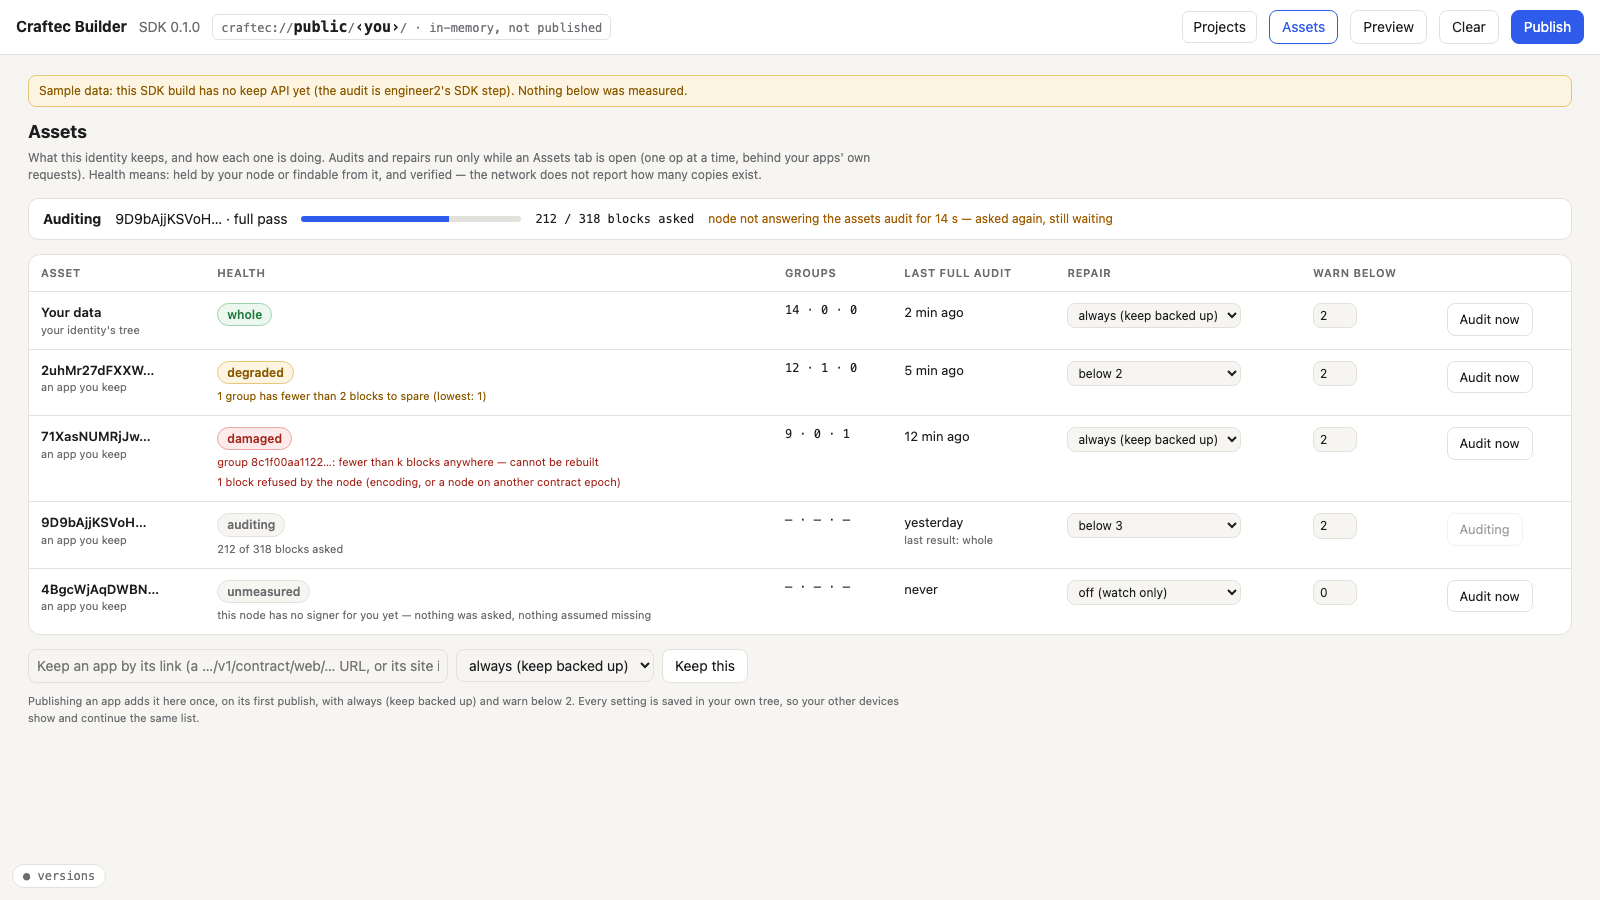
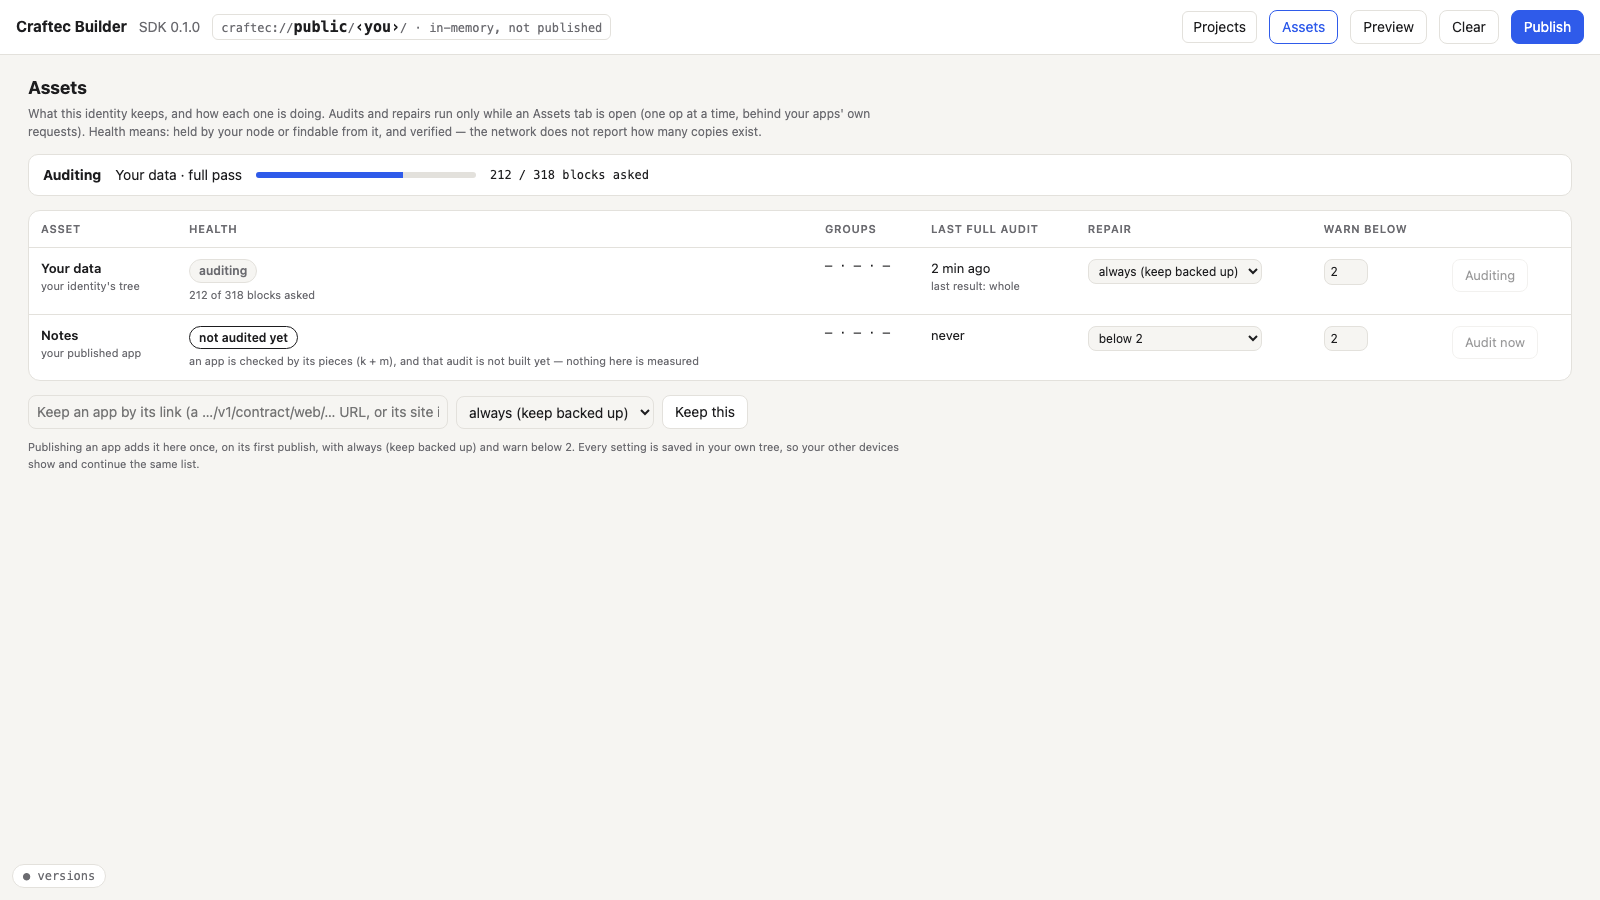
builder#164: the Assets tab on the SDK's real keep API -- the stub is deleted; an APP is 'not audited yet' and never healthy until its pieces audit exists (sdk#493), pinned by a test with the identity-tree control; a keepAudit refusal is said; screenshot over sample SDK answers

diff --git a/assets.js b/assets.js
@@ -28,38 +28,67 @@ export function ago(auditedAt, nowMs) {
  * "background" })`. Returns `{ running, rows }`.
  */
 export function assetsView({ assets, reports = new Map(), labels = new Map(), waiting = null, nowMs }) {
-  const rows = assets.map(a => {
-    const report = reports.get(a.target) ?? null;
-    const running = report?.state === "running";
-    const unmeasured = report?.state === "unmeasured" || a.health?.word === "unmeasured";
-    // The word: the live pass's when it finished this session, else the record's last full pass (both the SDK's).
-    const done = report?.state === "done" ? report : null;
-    const word = running ? "auditing" : unmeasured ? "unmeasured" : (done?.health ?? a.health?.word ?? "never audited");
-    const counts = done ?? (a.health?.word ? a.health : null);
-    const notes = [];
-    if (running) notes.push({ kind: "progress", text: `${report.asked} of ${report.of} blocks asked` });
-    if (unmeasured) notes.push({ kind: "mute", text: "this node has no signer for you yet — nothing was asked, nothing assumed missing" });
-    const warning = done?.warning ?? (running ? null : a.warning);
-    if (!running && !unmeasured && warning) notes.push({ kind: "warn", text: warning });
-    for (const g of done?.damaged ?? []) notes.push({ kind: "damaged", text: `group ${short(g)}: fewer than k blocks anywhere — cannot be rebuilt` });
-    const rejected = done?.rejected?.length ?? 0;
-    if (rejected) notes.push({ kind: "damaged", text: `${rejected} block${rejected === 1 ? "" : "s"} refused by the node (encoding, or a node on another contract epoch)` });
-    const pending = done?.pending ?? 0;
-    return {
-      target: a.target,
-      name: labels.get(a.target) ?? (a.kind === "identity" ? "Your data" : short(a.target)),
-      sub: a.kind === "identity" ? "your identity's tree" : labels.has(a.target) ? "your published app" : "an app you keep",
-      word,
-      notes,
-      groups: counts && !running ? `${counts.whole} · ${counts.degraded} · ${counts.damaged?.length ?? counts.damaged}` : "— · — · —",
-      last: ago(a.audited_at, nowMs),
-      lastNote: running && a.health?.word ? `last result: ${a.health.word}` : pending ? `${pending} block${pending === 1 ? "" : "s"} pending (silent) — asked again next pass` : null,
-      repair: repairWords(a.policy.repair),
-      warnBelow: a.policy.warn_below,
-      // Disabled only while a pass runs. NOT for unmeasured: running a pass is how a row learns it is (engineer2).
-      canAudit: !running,
-    };
-  });
+  const rows = assets.map(a => (a.kind === "identity" ? treeRow(a, reports, labels, nowMs) : notAuditedRow(a, labels, nowMs)));
+  return { running: runningLine(assets, reports, rows, waiting), rows };
+}
+
+/**
+ * An asset the SDK cannot audit yet: an APP is audited by its container's PIECES (k + m, KEEPER §2), and that audit is
+ * not built (sdk#493) -- the SDK's `keepAudit` refuses it NOT_AUDITABLE. So the row is "not audited yet", NEVER a health
+ * word, whatever its record holds (no pass of ours measured it), and its button is off. Its policy is still editable:
+ * the record is kept, and the pass will read it once it exists.
+ */
+function notAuditedRow(a, labels, nowMs) {
+  return {
+    target: a.target,
+    name: labels.get(a.target) ?? short(a.target),
+    sub: labels.has(a.target) ? "your published app" : "an app you keep",
+    word: "not audited yet",
+    notes: [{ kind: "mute", text: "an app is checked by its pieces (k + m), and that audit is not built yet — nothing here is measured" }],
+    groups: "— · — · —",
+    last: ago(0, nowMs),
+    lastNote: null,
+    repair: repairWords(a.policy.repair),
+    warnBelow: a.policy.warn_below,
+    canAudit: false,
+  };
+}
+
+/** The identity's own TREE: the asset a pass runs on (this session's page). */
+function treeRow(a, reports, labels, nowMs) {
+  const report = reports.get(a.target) ?? null;
+  const running = report?.state === "running";
+  const unmeasured = report?.state === "unmeasured" || a.health?.word === "unmeasured";
+  // The word: the live pass's when it finished this session, else the record's last full pass (both the SDK's).
+  const done = report?.state === "done" ? report : null;
+  const word = running ? "auditing" : unmeasured ? "unmeasured" : (done?.health ?? a.health?.word ?? "never audited");
+  const counts = done ?? (a.health?.word ? a.health : null);
+  const notes = [];
+  if (running) notes.push({ kind: "progress", text: `${report.asked} of ${report.of} blocks asked` });
+  if (unmeasured) notes.push({ kind: "mute", text: "this node has no signer for you yet — nothing was asked, nothing assumed missing" });
+  const warning = done?.warning ?? (running ? null : a.warning);
+  if (!running && !unmeasured && warning) notes.push({ kind: "warn", text: warning });
+  for (const g of done?.damaged ?? []) notes.push({ kind: "damaged", text: `group ${short(g)}: fewer than k blocks anywhere — cannot be rebuilt` });
+  const rejected = done?.rejected?.length ?? 0;
+  if (rejected) notes.push({ kind: "damaged", text: `${rejected} block${rejected === 1 ? "" : "s"} refused by the node (encoding, or a node on another contract epoch)` });
+  const pending = done?.pending ?? 0;
+  return {
+    target: a.target,
+    name: "Your data",
+    sub: "your identity's tree",
+    word,
+    notes,
+    groups: counts && !running ? `${counts.whole} · ${counts.degraded} · ${counts.damaged?.length ?? counts.damaged}` : "— · — · —",
+    last: ago(a.audited_at, nowMs),
+    lastNote: running && a.health?.word ? `last result: ${a.health.word}` : pending ? `${pending} block${pending === 1 ? "" : "s"} pending (silent) — asked again next pass` : null,
+    repair: repairWords(a.policy.repair),
+    warnBelow: a.policy.warn_below,
+    // Disabled only while a pass runs. NOT for unmeasured: running a pass is how a row learns it is (engineer2).
+    canAudit: !running,
+  };
+}
+
+function runningLine(assets, reports, rows, waiting) {
   const live = assets.map(a => [a, reports.get(a.target)]).find(([, r]) => r?.state === "running");
   const running = live && {
     target: live[0].target,
@@ -69,5 +98,5 @@ export function assetsView({ assets, reports = new Map(), labels = new Map(), wa
     of: live[1].of,
     waiting: waiting && /assets audit/.test(waiting.what) ? `node not answering the assets audit for ${Math.round(waiting.ms / 1000)} s — asked again, still waiting` : null,
   };
-  return { running: running ?? null, rows };
+  return running ?? null;
 }

diff --git a/app.js b/app.js
@@ -742,9 +742,7 @@ render();
 
 // ---- THE ASSETS TAB (builder#164; KEEPER.md §1, §3) ----------------------------------------------------------------
 // A header button that swaps the main area for the assets view. The view reads the SDK's keep API on the session
-// handle. Until that API is in the pinned SDK, the tab runs on `assets-keep-stub.js` and SAYS so on the page -- the
-// stub is deleted in the PR that switches to the real surface (the architect's condition), and nothing it shows is
-// presented as measured.
+// handle (sdk#472). A pinned SDK without it shows THAT, and nothing else: no sample rows, nothing presented as measured.
 {
   const button = $("assets"), view = $("assets-view"), mainEl = document.querySelector("main");
   let mounted = null;
@@ -761,10 +759,12 @@ render();
     button.classList.toggle("on", on);
     if (!on) return;
     const handle = rt?.session;
-    const real = typeof handle?.keepAssets === "function";
-    const api = real ? handle : (await import("./assets-keep-stub.js")).keepStub();
+    if (typeof handle?.keepAssets !== "function") {
+      view.replaceChildren(Object.assign(document.createElement("div"), { className: "stubbed", textContent: handle ? "This SDK build has no keep API (sdk#472): nothing to show." : "Open a project first: the assets are your identity's, read through its session." }));
+      return;
+    }
     const host = document.createElement("div");
-    view.replaceChildren(...(real ? [] : [Object.assign(document.createElement("div"), { className: "stubbed", textContent: "Sample data: this SDK build has no keep API yet (the audit is engineer2's SDK step). Nothing below was measured." })]), host);
-    mounted = mountAssets(host, { api, labels });
+    view.replaceChildren(host);
+    mounted = mountAssets(host, { api: handle, labels });
   };
 }

diff --git a/assets-panel.js b/assets-panel.js
@@ -43,7 +43,7 @@ export function mountAssets(root, { api, labels = () => new Map(), now = () => D
         el("td", {}, r.last, r.lastNote && el("small", { textContent: r.lastNote })),
         el("td", {}, policySelect(r)),
         el("td", {}, warnInput(r)),
-        el("td", {}, el("button", { textContent: r.word === "auditing" ? "Auditing" : "Audit now", disabled: !r.canAudit, onclick: () => { api.keepAudit(r.target); paint(); } })),
+        el("td", {}, el("button", { textContent: r.word === "auditing" ? "Auditing" : "Audit now", disabled: !r.canAudit, onclick: () => { const a = api.keepAudit(r.target); note.textContent = a?.refused ? `Not audited: ${a.said}` : ""; paint(); } })),
       )));
     const addr = el("input", { placeholder: "Keep an app by its link (a …/v1/contract/web/… URL, or its site id)" });
     const pol = el("select", {}, POLICIES.map(([v, w]) => el("option", { value: v, textContent: w })));
